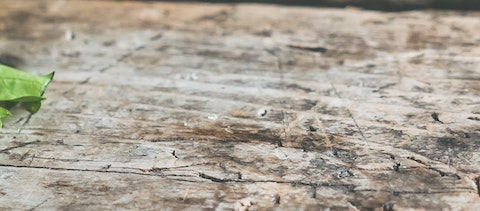
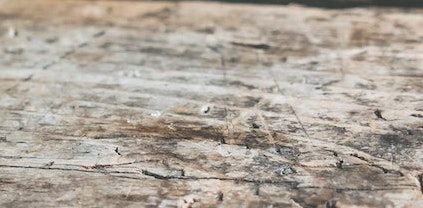
Search background images

diff --git a/src/components/RecipeSearch/RecipeSearch.css b/src/components/RecipeSearch/RecipeSearch.css
@@ -16,7 +16,7 @@
   }
 
   .pageDiv {
-    background-image: url('https://www.eatthis.com/content/uploads//media/images/ext/781897626/veggies-fruit.jpg')
+    background-image: url('./FoodList/images/Herbs.jpg');
   }
 
 .ingredientItem {
@@ -30,7 +30,8 @@
     padding-top: 20px;
     margin: 8px;
     text-align: center;
-    /* background-color: beige; */
+    background-color: beige;
+    opacity: .90;
 }
 
 .ingredientItemSelected {

diff --git a/src/components/RecipeSearch/FoodList/FoodList.js b/src/components/RecipeSearch/FoodList/FoodList.js
@@ -48,7 +48,7 @@ class FoodList extends Component {
         })
 
         return (
-        <div>
+        <div className="pageDiv">
             <Link to="/kitchen" onClick={this.clearSearch}><Kitchen style={{fontSize: 40}}/></Link>
             <AccountBox style={{fontSize: 40}} className="logout" onClick={this.logout}/>
             <h2>Select Ingredients</h2>

diff --git a/src/components/Kitchen/Kitchen.css b/src/components/Kitchen/Kitchen.css
@@ -84,7 +84,6 @@
 }
 
 
-
 h1 {
     text-align: center
 }
